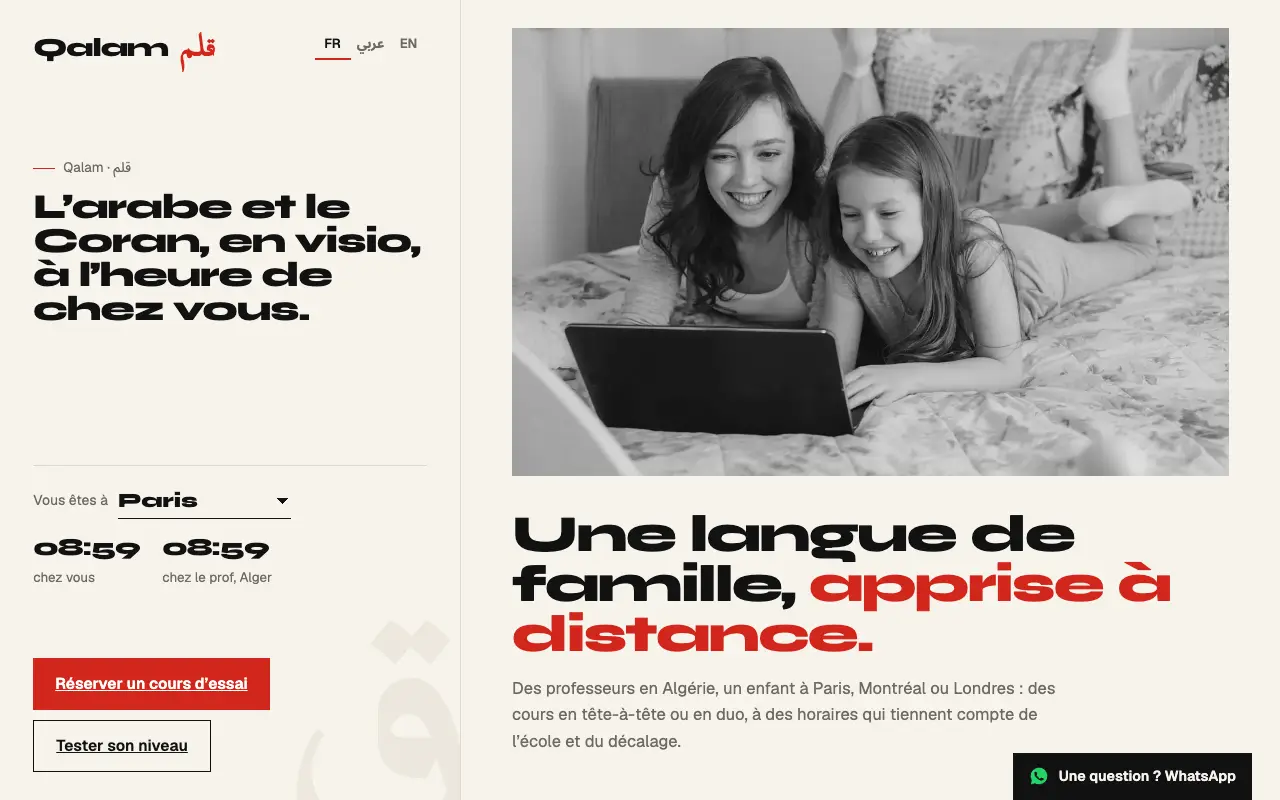
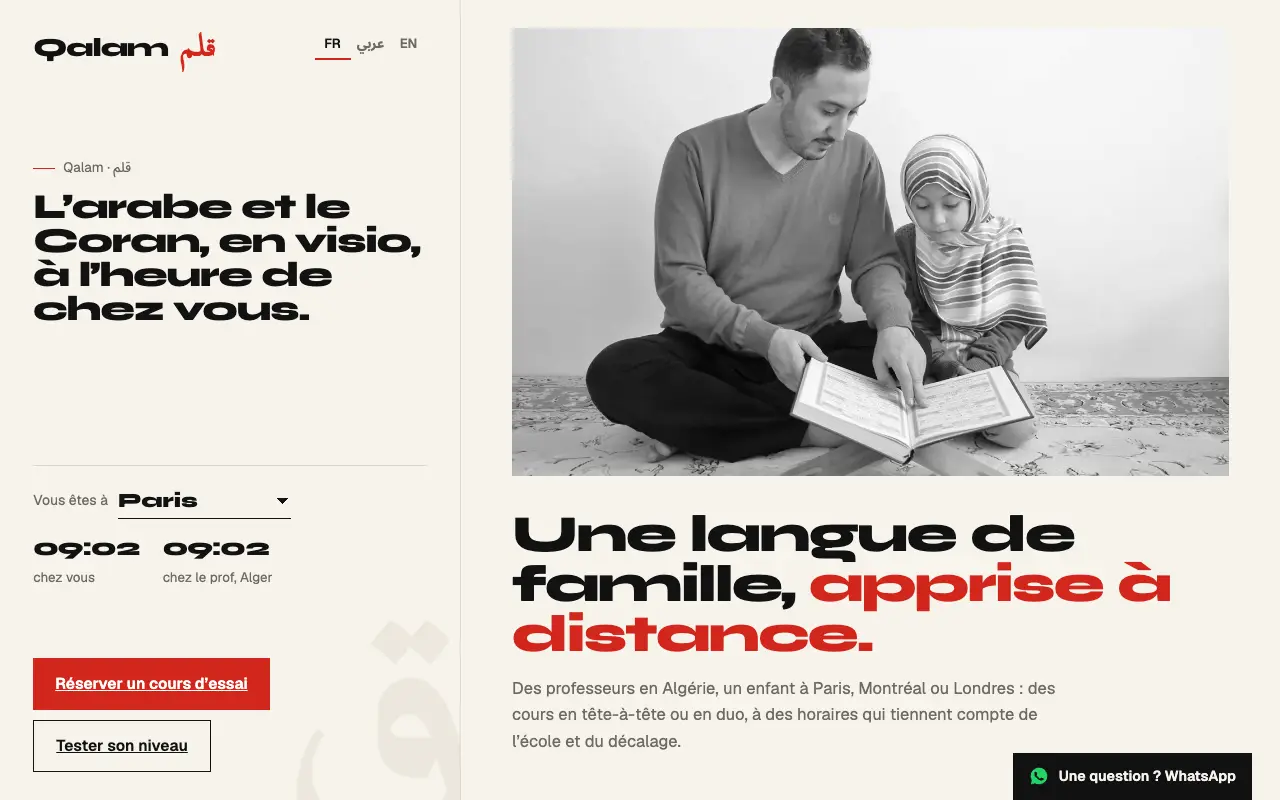
fix(qalam): use modest photos that fit an Arabic and Quran school

diff --git a/sites/qalam/app.js b/sites/qalam/app.js
@@ -6,7 +6,7 @@
   function $(s, c) { return (c || document).querySelector(s); }
   function $$(s, c) { return [].slice.call((c || document).querySelectorAll(s)); }
   function L(o) { return o[lang]; }
-  var P = { manuscrit: "Bernd Dittrich", page: "The Cleveland Museum of Art", ecran: "Vitaly Gariev", lecture2: "Vitaly Gariev" };
+  var P = { famille: "Hasan Almasi", prof: "Rendy Novantino" };
 
   var I = {
     fr: { demo0: "Site de démonstration : école fictive, tarifs et horaires donnés à titre d’exemple.", demo1: "Voir les autres modèles", youAre: "Vous êtes à", ckAlgL: "chez le prof, Alger", ckHere: "chez vous", cta1: "Réserver un cours d’essai", cta2: "Tester son niveau",
@@ -18,7 +18,7 @@
       s5L: "Le prix", s5H: "Vous payez les séances, dans votre monnaie", pS: "Séances par semaine", pD: "Durée", pK: "Enfants", perM: "par mois", unit: "Prix d’une séance", count: "{n} séances × 4 semaines", sib: "Frères et sœurs −20 %", free: "Sans engagement, arrêt possible chaque mois",
       s6L: "Gratuit", s6H: "Un premier cours, offert", s6P: "30 minutes avec un professeur pour faire connaissance et confirmer le niveau. Sans paiement ni engagement.", l1: "Prénom de l’enfant", l2: "Âge", l3: "Créneau (heure de chez vous)", l4: "E-mail ou WhatsApp avec indicatif", send: "Réserver le cours d’essai", years: "ans",
       err: "Indiquez le prénom et un e-mail ou un numéro avec indicatif (+33…).", demo: "Démo AFEX Digital : aucun cours n’a été réservé, ce formulaire n’est pas encore connecté.", waT: "Une question ? WhatsApp", waDemo: "Démo AFEX Digital : le numéro WhatsApp n’est pas encore connecté.",
-      foot: "© 2026 Qalam, école fictive en ligne.", by: "Site réalisé par", photos: "Photos : Unsplash,", lang: "Langue", ecranAlt: "Une mère et sa fille devant un ordinateur portable", lecAlt: "Une femme lit un livre avec une petite fille",
+      foot: "© 2026 Qalam, école fictive en ligne.", by: "Site réalisé par", photos: "Photos : Unsplash,", lang: "Langue", famAlt: "Un père lit le Coran avec sa fille, assis par terre", profAlt: "Une enseignante en hijab sourit devant son ordinateur",
       title: "Qalam, l’arabe et le Coran en visio pour les enfants de la diaspora", loc: "fr-FR",
       sec: [["Qalam · قلم", "L’arabe et le Coran, en visio, à l’heure de chez vous.", "Pour les enfants de 5 à 14 ans qui grandissent loin de l’Algérie."], ["01 · Le prénom", "Son prénom, en lettres arabes", "Le premier mot qu’on apprend à écrire."], ["02 · L’alphabet", "Vingt-huit lettres", "Chacune a jusqu’à quatre formes."], ["03 · Le niveau", "Trois niveaux et un parcours Coran", "Un test de quatre questions."], ["04 · Les horaires", "Des cours après l’école, pas la nuit", "Convertis pour votre ville."], ["05 · Le prix", "Pas d’abonnement à l’année", "Dans votre monnaie, au mois."], ["06 · L’essai", "Un premier cours offert", "Trente minutes pour se rencontrer."]],
       idx: ["Le prénom en arabe", "Les 28 lettres", "Le test de niveau", "Les horaires", "Le prix", "Le cours d’essai"] },
@@ -31,7 +31,7 @@
       s5L: "السعر", s5H: "تدفعون الحصص بعملتكم", pS: "حصص في الأسبوع", pD: "المدة", pK: "الأطفال", perM: "في الشهر", unit: "سعر الحصة", count: "{n} حصص × 4 أسابيع", sib: "الإخوة −20 %", free: "بلا التزام، التوقف ممكن كل شهر",
       s6L: "مجاني", s6H: "حصة أولى مجانية", s6P: "30 دقيقة مع أستاذ للتعارف وتأكيد المستوى. بلا دفع ولا التزام.", l1: "اسم الطفل", l2: "السن", l3: "الموعد (بتوقيتكم)", l4: "البريد أو واتساب مع رمز البلد", send: "احجز الحصة التجريبية", years: "سنة",
       err: "أدخلوا الاسم وبريدًا إلكترونيًا أو رقمًا مع رمز البلد (+33…).", demo: "عرض AFEX Digital: لم تُحجز أي حصة، هذا النموذج غير متصل بعد.", waT: "سؤال؟ واتساب", waDemo: "عرض AFEX Digital: رقم واتساب غير متصل بعد.",
-      foot: "© 2026 قلم، مدرسة وهمية عبر الإنترنت.", by: "موقع من إنجاز", photos: "الصور: Unsplash،", lang: "اللغة", ecranAlt: "أم وابنتها أمام حاسوب محمول", lecAlt: "امرأة تقرأ كتابًا مع طفلة",
+      foot: "© 2026 قلم، مدرسة وهمية عبر الإنترنت.", by: "موقع من إنجاز", photos: "الصور: Unsplash،", lang: "اللغة", famAlt: "أب يقرأ القرآن مع ابنته جالسَين على الأرض", profAlt: "معلّمة بالحجاب تبتسم أمام حاسوبها",
       title: "قلم، العربية والقرآن عبر الفيديو لأطفال الجالية", loc: "ar",
       sec: [["قلم · Qalam", "العربية والقرآن عبر الفيديو، بتوقيت مدينتكم.", "للأطفال من 5 إلى 14 سنة الذين يكبرون بعيدًا عن الجزائر."], ["01 · الاسم", "اسمه بالحروف العربية", "أول كلمة نتعلم كتابتها."], ["02 · الحروف", "ثمانية وعشرون حرفًا", "لكل منها حتى أربعة أشكال."], ["03 · المستوى", "ثلاثة مستويات ومسار للقرآن", "اختبار من أربعة أسئلة."], ["04 · المواعيد", "حصص بعد المدرسة لا في الليل", "محوّلة إلى مدينتكم."], ["05 · السعر", "بلا اشتراك سنوي", "بعملتكم، شهريًا."], ["06 · التجربة", "حصة أولى مجانية", "ثلاثون دقيقة للتعارف."]],
       idx: ["الاسم بالعربية", "الحروف الـ28", "اختبار المستوى", "المواعيد", "السعر", "الحصة التجريبية"] },
@@ -44,7 +44,7 @@
       s5L: "Pricing", s5H: "Pay per lesson, in your currency", pS: "Lessons per week", pD: "Length", pK: "Children", perM: "per month", unit: "Price per lesson", count: "{n} lessons × 4 weeks", sib: "Siblings −20%", free: "No commitment, stop any month",
       s6L: "Free", s6H: "A first lesson, on us", s6P: "30 minutes with a teacher to meet and confirm the level. No payment, no commitment.", l1: "Child’s first name", l2: "Age", l3: "Slot (your local time)", l4: "Email or WhatsApp with country code", send: "Book the trial lesson", years: "years",
       err: "Enter the first name and an email or a number with country code (+44…).", demo: "AFEX Digital demo: no lesson was booked, this form is not connected yet.", waT: "A question? WhatsApp", waDemo: "AFEX Digital demo: the WhatsApp number is not connected yet.",
-      foot: "© 2026 Qalam, a fictional online school.", by: "Website by", photos: "Photos: Unsplash,", lang: "Language", ecranAlt: "A mother and daughter at a laptop", lecAlt: "A woman reading a book with a little girl",
+      foot: "© 2026 Qalam, a fictional online school.", by: "Website by", photos: "Photos: Unsplash,", lang: "Language", famAlt: "A father reading the Quran with his daughter on the floor", profAlt: "A teacher in a hijab smiling at her laptop",
       title: "Qalam, Arabic and Quran on video for diaspora children", loc: "en-GB",
       sec: [["Qalam · قلم", "Arabic and the Quran on video, at your local time.", "For children aged 5 to 14 growing up far from Algeria."], ["01 · The name", "Their name in Arabic letters", "The first word you learn to write."], ["02 · The alphabet", "Twenty-eight letters", "Each with up to four forms."], ["03 · The level", "Three levels and a Quran track", "A four-question test."], ["04 · Times", "Lessons after school, not at night", "Converted to your city."], ["05 · Pricing", "No yearly contract", "In your currency, monthly."], ["06 · The trial", "A first lesson, free", "Thirty minutes to meet."]],
       idx: ["Their name in Arabic", "The 28 letters", "The level test", "Lesson times", "Pricing", "The trial lesson"] }

diff --git a/sites/qalam/index.html b/sites/qalam/index.html
@@ -259,7 +259,7 @@ html.js:not(.static) [data-up]{opacity:0;transform:translateY(24px)}
 
   <main id="top">
     <section class="blk intro" data-sec="0">
-      <div class="ph" data-up><img src="assets/img/ecran-1280.webp" srcset="assets/img/ecran-640.webp 640w, assets/img/ecran-1280.webp 1280w, assets/img/ecran-1920.webp 1920w" sizes="(min-width:820px) 60vw, 100vw" width="1280" height="720" alt="" data-alt="ecranAlt" fetchpriority="high"></div>
+      <div class="ph" data-up><img src="assets/img/famille-1280.webp" srcset="assets/img/famille-640.webp 640w, assets/img/famille-1280.webp 1280w, assets/img/famille-1920.webp 1920w" sizes="(min-width:820px) 60vw, 100vw" width="1280" height="893" alt="" data-alt="famAlt" fetchpriority="high"></div>
       <p class="demo mdemo"><span data-i="demo0">Site de démonstration : école fictive, tarifs et horaires donnés à titre d’exemple.</span> <a href="https://form.afexad.app/" data-i="demo1">Voir les autres modèles</a></p>
       <h2 class="mobileHead" style="display:none" data-i="mH">L’arabe et le Coran, en visio, à l’heure de chez vous.</h2>
       <h2 data-up><span data-i="inA">Une langue de famille,</span> <em data-i="inB">apprise à distance.</em></h2>
@@ -338,7 +338,7 @@ html.js:not(.static) [data-up]{opacity:0;transform:translateY(24px)}
           <button class="btn k" type="submit" data-i="send">Réserver le cours d’essai</button>
           <p id="msg" role="status"></p>
         </form>
-        <div class="ph"><img src="assets/img/lecture2-640.webp" srcset="assets/img/lecture2-640.webp 640w, assets/img/lecture2-1280.webp 1280w" sizes="(min-width:1100px) 25vw, 100vw" width="1280" height="720" alt="" data-alt="lecAlt" loading="lazy" decoding="async"></div>
+        <div class="ph"><img src="assets/img/prof-640.webp" srcset="assets/img/prof-640.webp 640w, assets/img/prof-1280.webp 1280w" sizes="(min-width:1100px) 25vw, 100vw" width="1280" height="2276" alt="" data-alt="profAlt" loading="lazy" decoding="async"></div>
       </div>
     </section>
 
